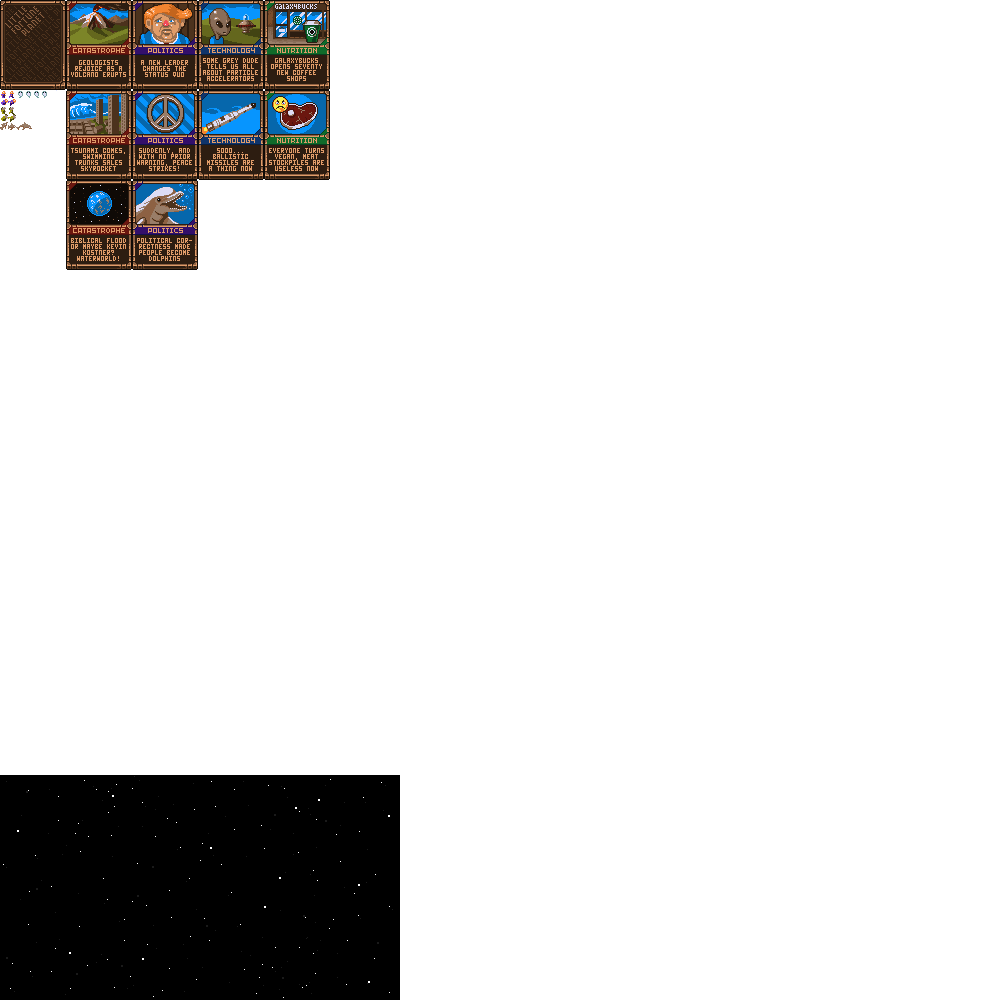
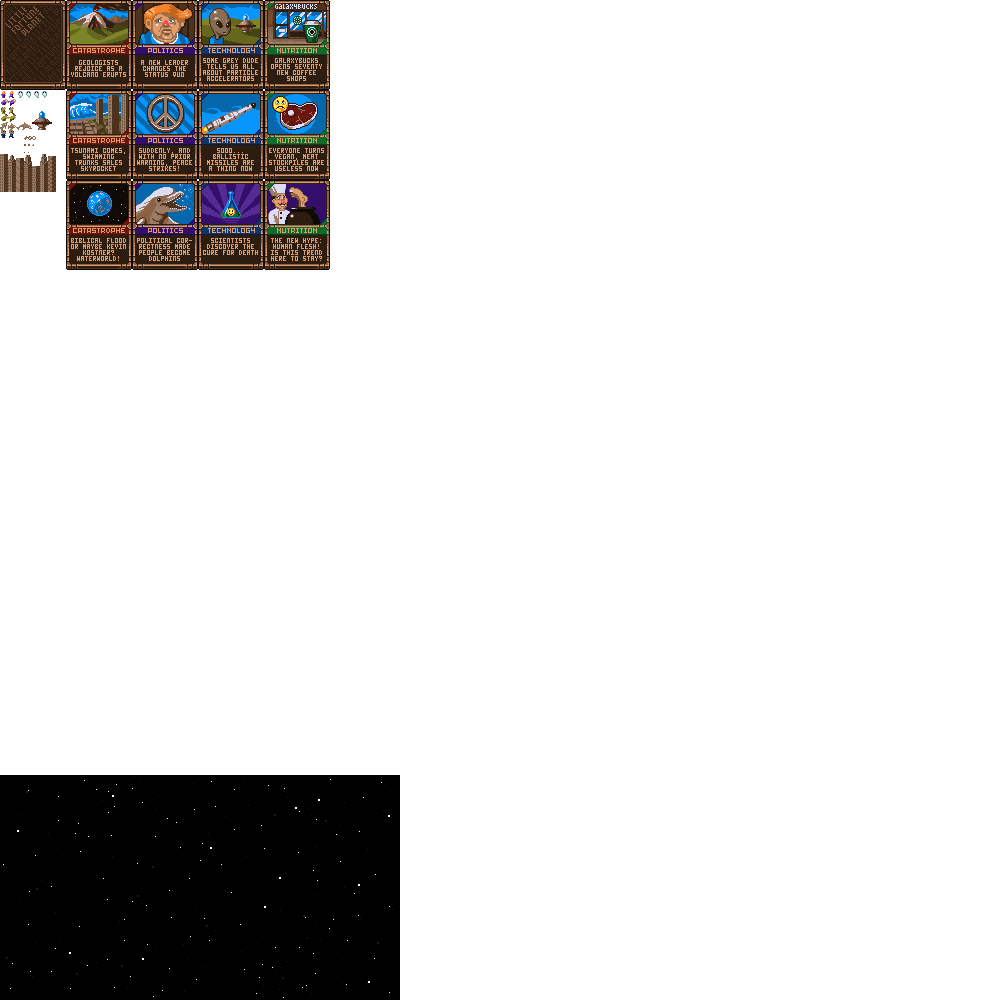
Card animations.

Changed region(s): [[0.186, 0.155, 0.341, 0.279], [0.0, 0.124, 0.062, 0.217], [0.031, 0.093, 0.062, 0.124]]

diff --git a/core/src/net/mostlyoriginal/game/system/StarEffectSystem.java b/core/src/net/mostlyoriginal/game/system/StarEffectSystem.java
@@ -1,0 +1,125 @@
+package net.mostlyoriginal.game.system;
+
+import com.artemis.Aspect;
+import com.artemis.ComponentMapper;
+import com.artemis.E;
+import com.badlogic.gdx.math.Interpolation;
+import com.badlogic.gdx.math.MathUtils;
+import net.mostlyoriginal.api.component.basic.Pos;
+import net.mostlyoriginal.api.component.graphics.Anim;
+import net.mostlyoriginal.game.component.G;
+import net.mostlyoriginal.game.component.Star;
+import net.mostlyoriginal.game.system.common.FluidIteratingSystem;
+
+import static com.artemis.E.E;
+
+/**
+ * @author Daan van Yperen
+ */
+public class StarEffectSystem extends FluidIteratingSystem {
+
+    public static final int BIGGEST_STAR_WIDTH = 100;
+
+    /**
+     * speed factor of ship.
+     */
+    private float timer;
+    public float speedFactor;
+    public boolean active=false;
+
+    protected ComponentMapper<Star> mStar;
+    protected ComponentMapper<Anim> mAnim;
+    protected ComponentMapper<Pos> mPos;
+    private int animStage;
+    private int playSoundState = 0;
+
+    public StarEffectSystem() {
+        super(Aspect.all(Star.class, Pos.class, Anim.class));
+    }
+
+    @Override
+    protected void initialize() {
+        super.initialize();
+
+        for (int i = 0; i < 200; i++) {
+            spawnStar(randomStarX(), MathUtils.random(0, G.SCREEN_HEIGHT + BIGGEST_STAR_WIDTH), MathUtils.random(100) < 20 ? 1 : MathUtils.random(100) < 20 ? 0 : 2);
+        }
+
+    }
+
+
+    private int randomStarX() {
+        return MathUtils.random(0, G.SCREEN_WIDTH);
+    }
+
+    private void spawnStar(int x, int y, int kind) {
+        E().pos(x, y)
+                .star(kind)
+                .anim()
+                .angleRotation(90f)
+                .renderLayer(G.LAYER_STAR)
+                .tint(MathUtils.random(0.6f, 1f), MathUtils.random(0.6f, 1f), MathUtils.random(0.6f, 1f), MathUtils.random(kind == 0 ? 0.1f : 0.5f, 0.9f));
+    }
+
+
+    private void trustEffect() {
+
+        // work towards full thrust.
+        if (active) {
+            timer += world.delta * 0.25f;
+            timer = MathUtils.clamp(timer, 0f, 1f);
+            speedFactor = Interpolation.exp5.apply(timer * 0.6f);
+            if (playSoundState == 0) {
+                playSoundState = 1;
+            }
+        } else {
+            timer -= world.delta * 0.25f;
+            timer = MathUtils.clamp(timer, 0f, 1f);
+            speedFactor = Interpolation.exp5.apply(timer * 0.6f);
+            if (playSoundState == 1) {
+                playSoundState = 0;
+            }
+        }
+
+    }
+
+    @Override
+    protected void begin() {
+        super.begin();
+        trustEffect();
+
+        if (speedFactor > 0.5) {
+            animStage = 3;
+        } else if (speedFactor > 0.25) {
+            animStage = 2;
+        } else if (speedFactor > 0.05) {
+            animStage = 1;
+        } else animStage = 0;
+    }
+
+    @Override
+    protected void process(E e) {
+
+        // match animation to speed.
+        Star star = e.getStar();
+        Anim anim = e.getAnim();
+
+        int id = 2 + animStage;
+        if (animStage == 0) {
+            // just blinking
+            id = (int) (star.blinkTimer % 3f);
+            star.blinkTimer += world.delta;
+        }
+
+        anim.id = star.animId[id];
+
+        Pos pos = e.getPos();
+
+        // move star to the left, and randomize location to give the appearance of more stars.
+        pos.xy.y -= ((8f + (speedFactor * 500f)) * world.delta * star.speedFactor);
+        if (pos.xy.y < -BIGGEST_STAR_WIDTH) {
+            pos.xy.y = G.SCREEN_HEIGHT;
+            pos.xy.x = randomStarX();
+        }
+    }
+}

diff --git a/core/src/net/mostlyoriginal/game/system/view/GameScreenAssetSystem.java b/core/src/net/mostlyoriginal/game/system/view/GameScreenAssetSystem.java
@@ -20,6 +20,29 @@ public class GameScreenAssetSystem extends AbstractAssetSystem {
     public GameScreenAssetSystem() {
         super("cards.png");
         loadSprites();
+
+        // recycle!
+        int offsetY = 140;
+        add("star-0-0", 32, 136 + offsetY, 4, 4, 1);
+        add("star-0-1", 32 - 4, 136 + offsetY, 4, 4, 1);
+        add("star-0-2", 32 - 8, 136 + offsetY, 4, 4, 1);
+        add("star-0-3", 40, 136 + offsetY, 7, 4, 1);
+        add("star-0-4", 48, 136 + offsetY, 26, 4, 1);
+        add("star-0-5", 80, 136 + offsetY, 36, 4, 1);
+
+        add("star-1-0", 32, 144 + offsetY, 2, 2, 1);
+        add("star-1-1", 32 - 4, 144 + offsetY, 2, 2, 1);
+        add("star-1-2", 32 - 8, 144 + offsetY, 2, 2, 1);
+        add("star-1-3", 40, 144 + offsetY, 6, 2, 1);
+        add("star-1-4", 48, 144 + offsetY, 12, 2, 1);
+        add("star-1-5", 80, 144 + offsetY, 21, 2, 1);
+
+        add("star-2-0", 32, 152 + offsetY, 1, 1, 1);
+        add("star-2-1", 32 - 4, 152 + offsetY, 1, 1, 1);
+        add("star-2-2", 32 - 8, 152 + offsetY, 1, 1, 1);
+        add("star-2-3", 40, 152 + offsetY, 4, 1, 1);
+        add("star-2-4", 48, 152 + offsetY, 7, 1, 1);
+        add("star-2-5", 80, 152 + offsetY, 15, 1, 1);
     }
 
     @Override
@@ -31,7 +54,7 @@ public class GameScreenAssetSystem extends AbstractAssetSystem {
         final Json json = new Json();
         spriteLibrary = json.fromJson(SpriteLibrary.class, Gdx.files.internal("sprites.json"));
         for (SpriteData sprite : spriteLibrary.sprites) {
-            add(sprite.id, sprite.x, sprite.y, sprite.width,sprite.height, sprite.countX, sprite.countY);
+            add(sprite.id, sprite.x, sprite.y, sprite.width, sprite.height, sprite.countX, sprite.countY);
         }
     }
 

diff --git a/core/src/net/mostlyoriginal/game/system/planet/PlanetRenderSystem.java b/core/src/net/mostlyoriginal/game/system/planet/PlanetRenderSystem.java
@@ -10,8 +10,10 @@ import com.badlogic.gdx.graphics.g2d.SpriteBatch;
 import com.badlogic.gdx.graphics.g2d.TextureRegion;
 import com.badlogic.gdx.math.MathUtils;
 import net.mostlyoriginal.api.system.camera.CameraSystem;
+import net.mostlyoriginal.api.system.delegate.EntityProcessPrincipal;
 import net.mostlyoriginal.game.component.Planet;
 import net.mostlyoriginal.game.component.PlanetCell;
+import net.mostlyoriginal.game.system.common.FluidDeferredEntityProcessingSystem;
 import net.mostlyoriginal.game.system.common.FluidIteratingSystem;
 
 import static net.mostlyoriginal.game.component.G.*;
@@ -19,14 +21,14 @@ import static net.mostlyoriginal.game.component.G.*;
 /**
  * @author Daan van Yperen
  */
-public class PlanetRenderSystem extends FluidIteratingSystem {
+public class PlanetRenderSystem extends FluidDeferredEntityProcessingSystem {
 
     private SpriteBatch batch;
     private TextureRegion planetPixel;
     private TextureRegion cloudPixel;
 
-    public PlanetRenderSystem() {
-        super(Aspect.all(Planet.class));
+    public PlanetRenderSystem(EntityProcessPrincipal principal) {
+        super(Aspect.all(Planet.class), principal);
     }
 
     private CameraSystem cameraSystem;
@@ -81,7 +83,7 @@ public class PlanetRenderSystem extends FluidIteratingSystem {
         for (int y = 0; y < SIMULATION_HEIGHT; y++) {
             for (int x = 0; x < SIMULATION_WIDTH; x++) {
                 final PlanetCell cell = planet.grid[y][x];
-                if (cell.type == PlanetCell.CellType.CLOUD ) {
+                if (cell.type == PlanetCell.CellType.CLOUD) {
                     int rndSize = 3;
                     Color.rgba8888ToColor(color, cell.color);
                     batch.setColor(color);

diff --git a/core/src/net/mostlyoriginal/game/system/MyCameraSystem.java b/core/src/net/mostlyoriginal/game/system/MyCameraSystem.java
@@ -12,7 +12,9 @@ public class MyCameraSystem extends CameraSystem {
 
     public static final float INTO_FOCUS_COOLDOWN = 10f;
     float cooldown = INTO_FOCUS_COOLDOWN;
-    float y = (G.SCREEN_HEIGHT/G.CAMERA_ZOOM)/2;
+    float y = (G.SCREEN_HEIGHT / G.CAMERA_ZOOM) / 2;
+
+    StarEffectSystem starEffectSystem;
 
     public MyCameraSystem(int cameraZoom) {
         super(cameraZoom);
@@ -25,12 +27,16 @@ public class MyCameraSystem extends CameraSystem {
 
     @Override
     protected void processSystem() {
-        if ( cooldown > 0 && !G.DEBUG_SKIP_INTRO ) {
+        if (cooldown > 0 && !G.DEBUG_SKIP_INTRO) {
+            if ( cooldown < 2f ) {
+                starEffectSystem.active=false;
+            }
+            starEffectSystem.active = true;
             cooldown -= world.delta;
             if (cooldown < 0) cooldown = 0;
-            camera.position.y = Interpolation.pow2In.apply(y,y+G.SCREEN_HEIGHT/2, cooldown / INTO_FOCUS_COOLDOWN);
+            camera.position.y = Interpolation.pow2In.apply(y, y + G.SCREEN_HEIGHT / 2, cooldown / INTO_FOCUS_COOLDOWN);
             camera.update();
-        }
+        } else starEffectSystem.active = false;
         super.processSystem();
     }
 }

diff --git a/core/src/net/mostlyoriginal/game/screen/GameScreen.java b/core/src/net/mostlyoriginal/game/screen/GameScreen.java
@@ -16,6 +16,7 @@ import net.mostlyoriginal.game.GdxArtemisGame;
 import net.mostlyoriginal.game.component.G;
 import net.mostlyoriginal.game.system.DrawingSystem;
 import net.mostlyoriginal.game.system.MyCameraSystem;
+import net.mostlyoriginal.game.system.StarEffectSystem;
 import net.mostlyoriginal.game.system.dilemma.CardScriptSystem;
 import net.mostlyoriginal.game.system.dilemma.CardSortSystem;
 import net.mostlyoriginal.game.system.dilemma.CardSystem;
@@ -75,13 +76,15 @@ public class GameScreen extends WorldScreen {
 
                         new GhostSystem(),
 
+                        new StarEffectSystem(),
+
                         new PlanetBackgroundRenderSystem(),
-                        new PlanetRenderSystem(),
                         new PlanetRenderGravityDebugSystem(),
                         new PlanetRenderTemperatureDebugSystem(),
 
                         renderBatchingSystem = new RenderBatchingSystem(),
-                        new AnimRenderSystem(renderBatchingSystem)
+                        new AnimRenderSystem(renderBatchingSystem),
+                        new PlanetRenderSystem(renderBatchingSystem)
                 ).build());
     }
 

diff --git a/core/src/net/mostlyoriginal/game/system/dilemma/CardSystem.java b/core/src/net/mostlyoriginal/game/system/dilemma/CardSystem.java
@@ -86,7 +86,7 @@ public class CardSystem extends FluidIteratingSystem {
             e.removeClickable();
             float MOVE_DURATION = 1.5f;
             float FINAL_CARD_SCALE = 0.4f;
-            e.physicsVr(500f).physicsFriction(0).angle().tint(Tint.WHITE);
+            e.physicsVr(500f).physicsFriction(0).angle().tint(Tint.WHITE).renderLayer(G.LAYER_CARDS_FLYING);
             e.script(
                     sequence(
                             parallel(
@@ -98,7 +98,7 @@ public class CardSystem extends FluidIteratingSystem {
                                     )),
                             add(new CardScript(e.playableCardCard().script))
                     ));
-            cardSortSystem.shouldResort=true;
+            cardSortSystem.shouldResort = true;
         }
     }
 
@@ -115,7 +115,7 @@ public class CardSystem extends FluidIteratingSystem {
                 .physics()
                 .scale(1.0f)
                 .renderLayer(G.LAYER_CARDS);
-        cardSortSystem.shouldResort=true;
+        cardSortSystem.shouldResort = true;
     }
 
     private static void restartGame() {

diff --git a/components/src/net/mostlyoriginal/game/component/G.java b/components/src/net/mostlyoriginal/game/component/G.java
@@ -5,7 +5,7 @@ package net.mostlyoriginal.game.component;
  */
 public class G {
 
-    public static boolean DEBUG_SKIP_INTRO = true;
+    public static boolean DEBUG_SKIP_INTRO = false;
 
     public static final float CARD_X = 5;
     public static final float CARD_Y = 5;
@@ -15,10 +15,13 @@ public class G {
     public static final int SIMULATION_HEIGHT = 220 + 50;
     public static final int MARGIN_BETWEEN_CARDS = 5;
 
+    public static final int LAYER_STAR = -50;
+    public static final int LAYER_PLANET = 0;
     public static final int LAYER_DUDES = 99;
     public static final int LAYER_GHOST = 100;
     public static final int LAYER_CARDS = 1000;
     public static final int LAYER_CARDS_HOVER = 1001;
+    public static final int LAYER_CARDS_FLYING = 1002;
 
     public static int CAMERA_ZOOM = 2;
     public static final int SCREEN_WIDTH = SIMULATION_WIDTH * 2 * CAMERA_ZOOM;

diff --git a/components/src/net/mostlyoriginal/game/component/Star.java b/components/src/net/mostlyoriginal/game/component/Star.java
@@ -1,0 +1,24 @@
+package net.mostlyoriginal.game.component;
+
+import com.artemis.Component;
+import com.badlogic.gdx.math.MathUtils;
+
+/**
+ * @author Daan van Yperen
+ */
+public class Star extends Component {
+    public Star() {
+    }
+    public final String animId[] = new String[6];
+    public final float speedFactor = 1f + MathUtils.random(-0.2f,0.5f);
+    public float blinkTimer = MathUtils.random(0f,10f);
+
+    public void set(int kind) {
+        animId[0] = "star-" + kind + "-0";
+        animId[1] = "star-" + kind + "-1";
+        animId[2] = "star-" + kind + "-2";
+        animId[3] = "star-" + kind + "-3";
+        animId[4] = "star-" + kind + "-4";
+        animId[5] = "star-" + kind + "-5";
+    }
+}

diff --git a/core/src/net/mostlyoriginal/game/system/planet/PlanetCreationSystem.java b/core/src/net/mostlyoriginal/game/system/planet/PlanetCreationSystem.java
@@ -42,6 +42,7 @@ public class PlanetCreationSystem extends PassiveSystem {
 
             planetEntity = E.E();
             Planet planetE = planetEntity
+                    .renderLayer(G.LAYER_PLANET)
                     .planet()
                     .pos(0, 0)
                     .getPlanet();
